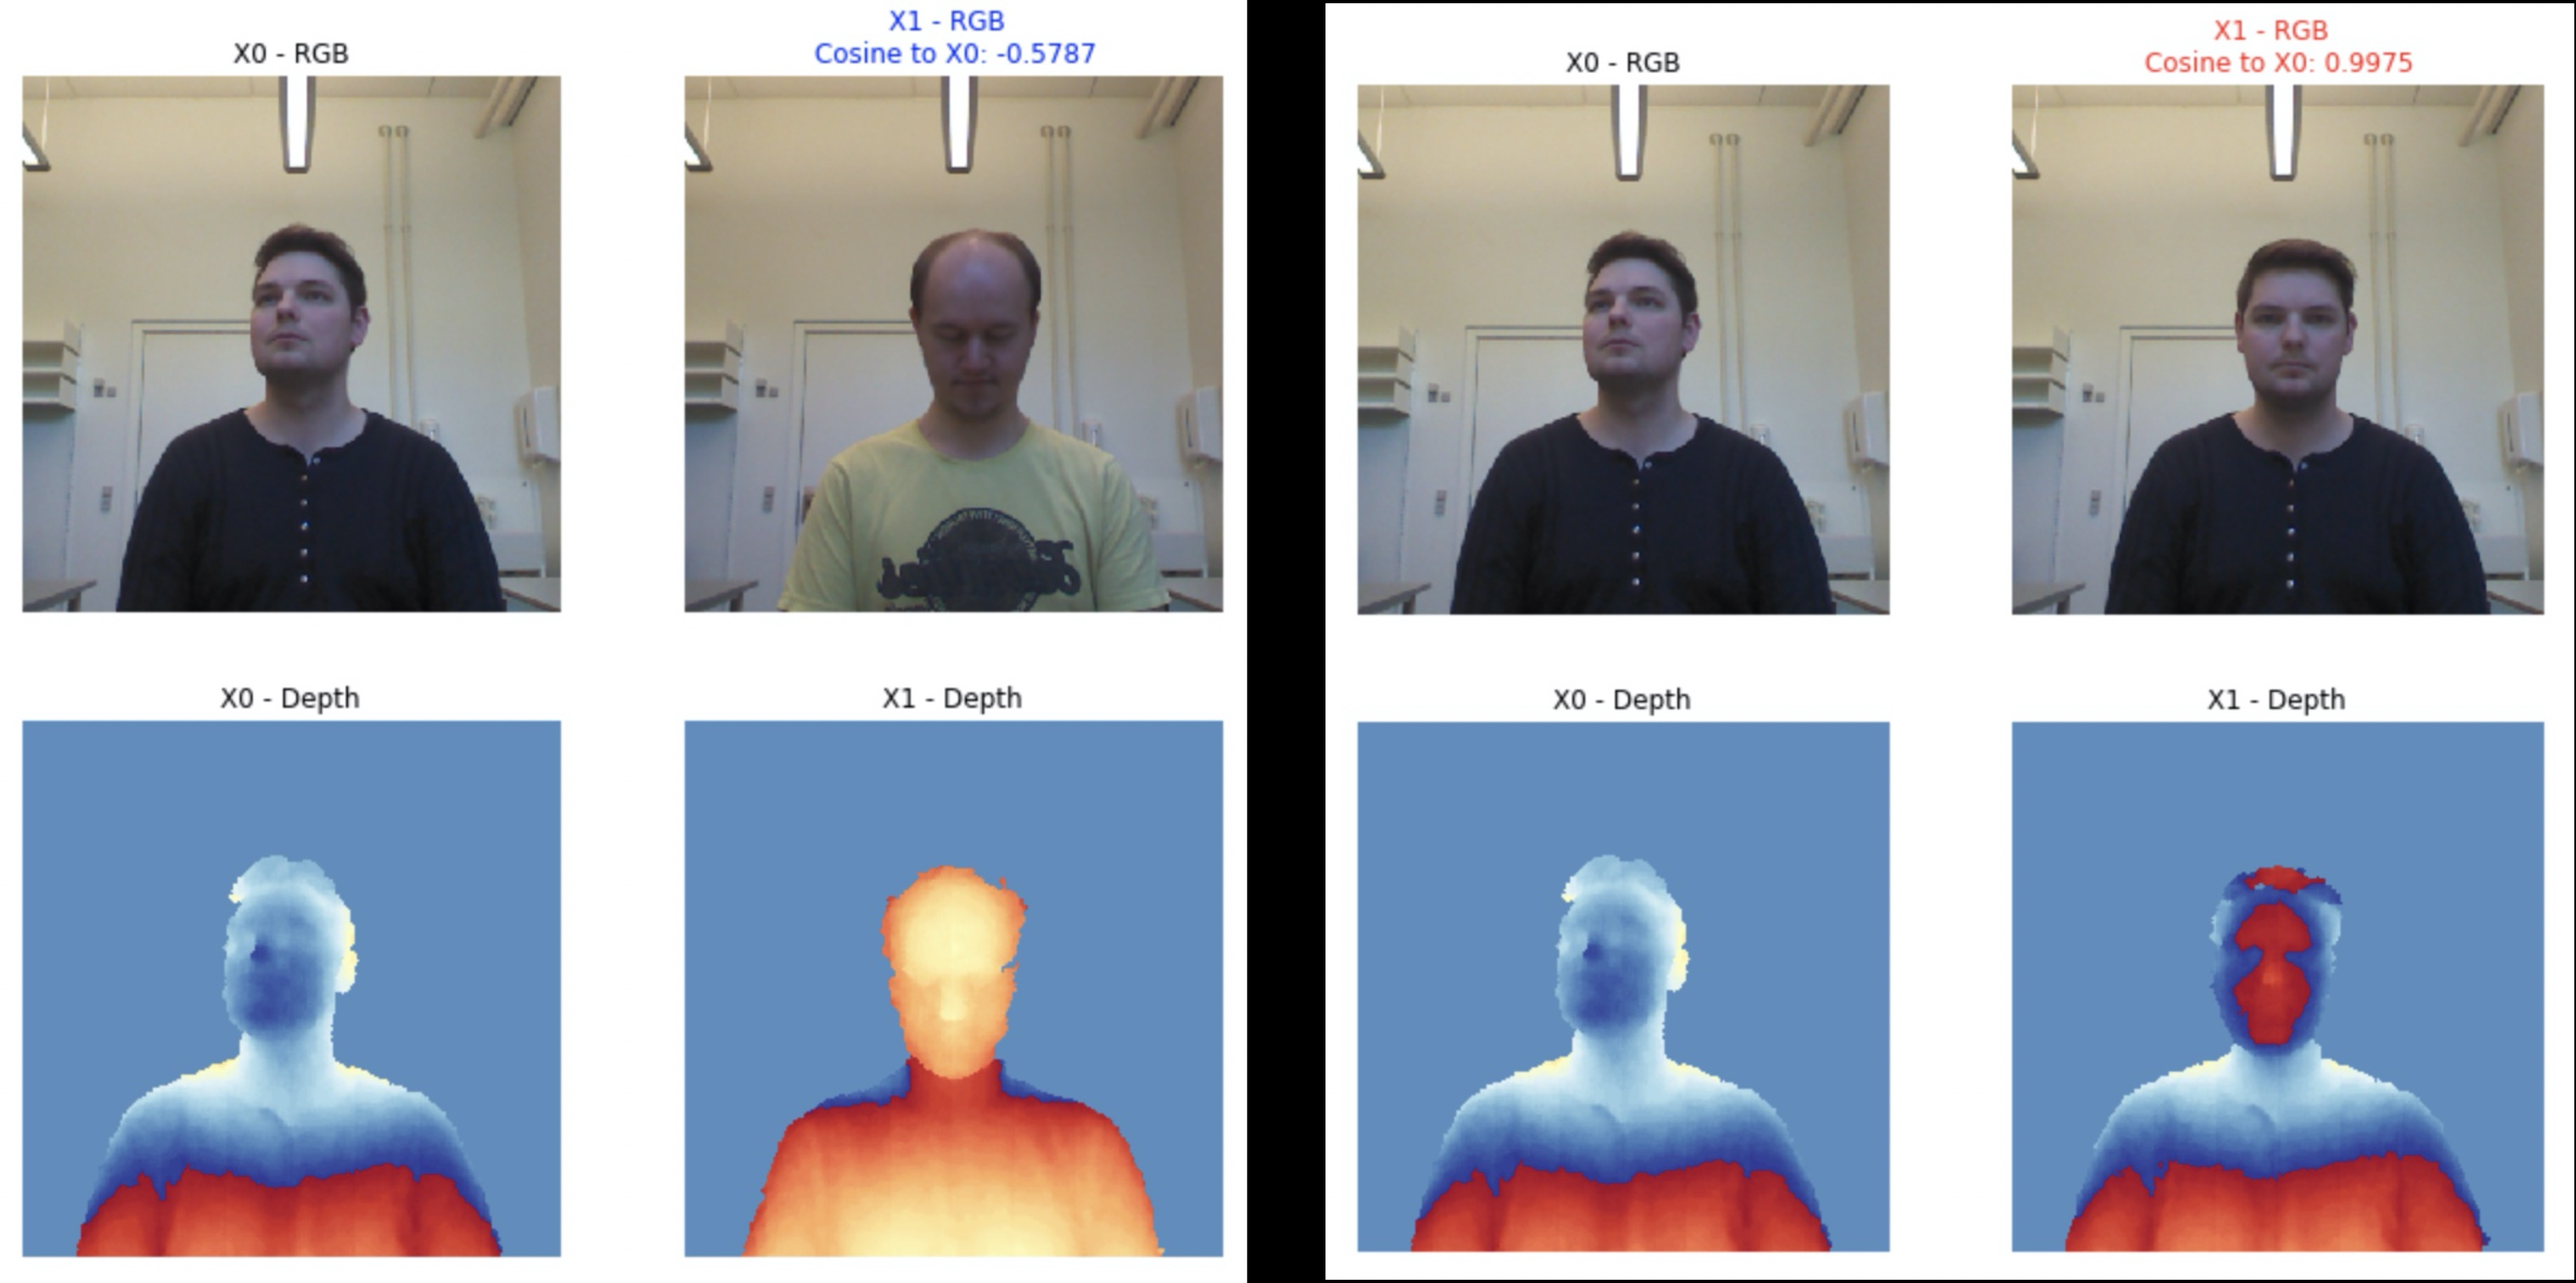
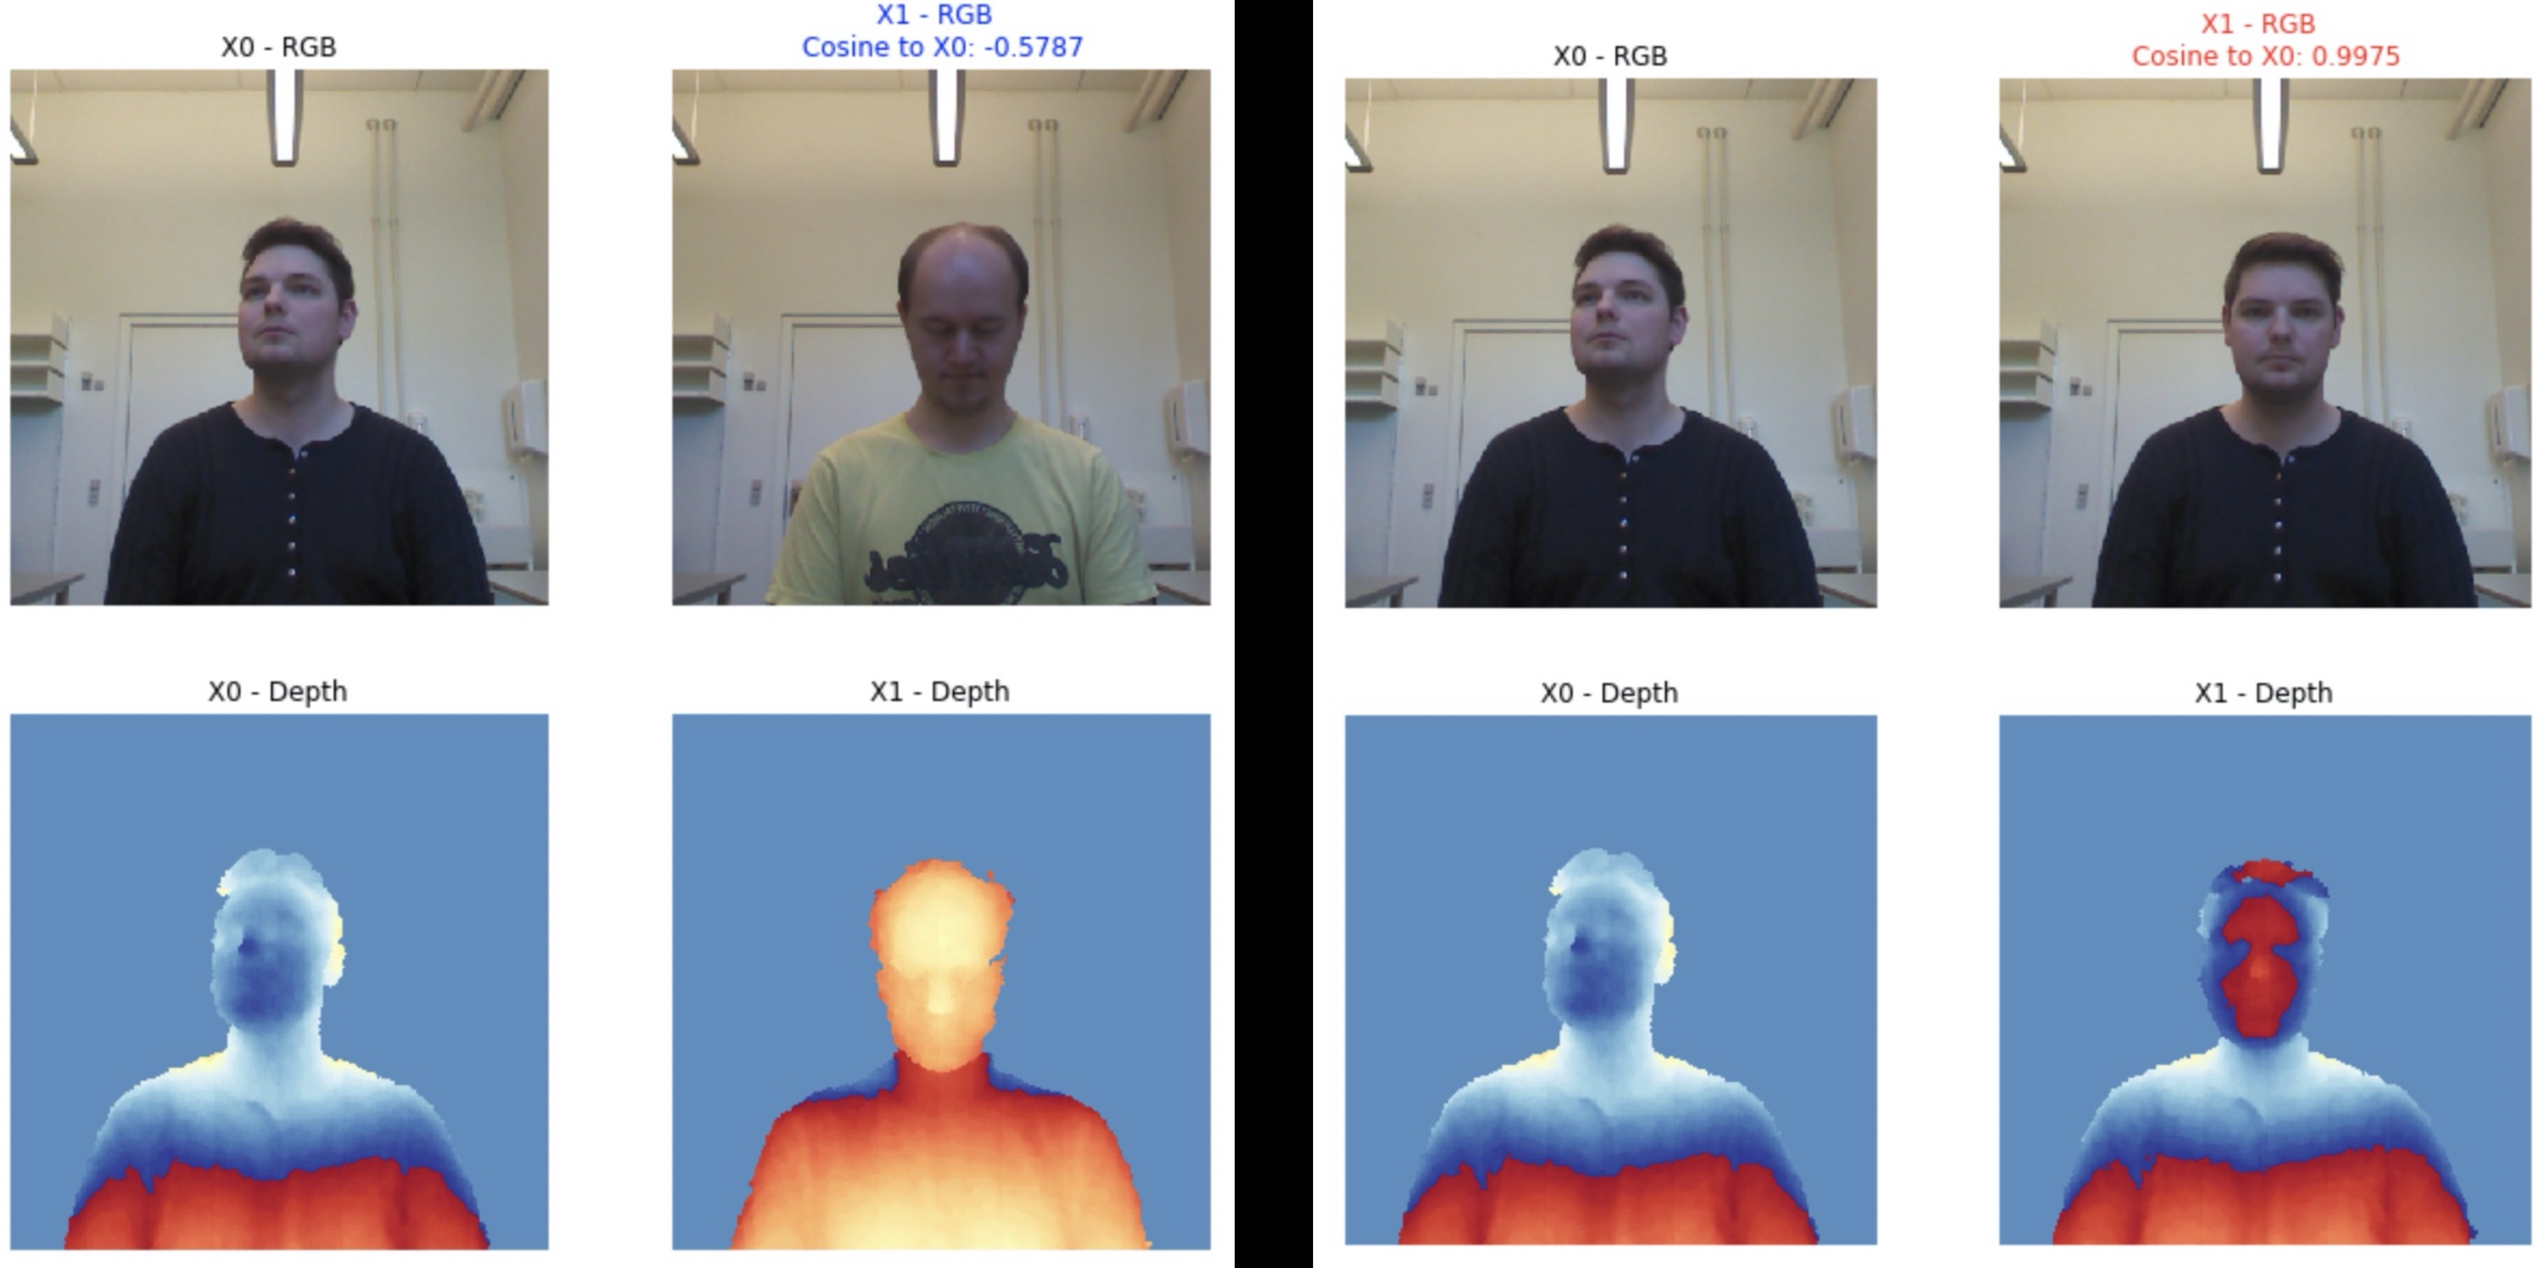
Update README

diff --git a/README.md b/README.md
@@ -2,12 +2,8 @@
 - Reimplementation of the FaceID authentication in PyTorch
 - Inspired by this blog https://towardsdatascience.com/how-i-implemented-iphone-xs-faceid-using-deep-learning-in-python-d5dbaa128e1d
 
-### Positive Example
-![alt text](figures/fig1.jpg "Positive Example")
-### Negative Example
-![alt text](figures/fig2.jpg "Negative Example")
-
-
+![alt text](figures/fig1.jpg "Examples")
+![alt text](figures/fig2.jpg "Average Cosines")
 
 # Requirements
 - tqdm >= 4.44.1
